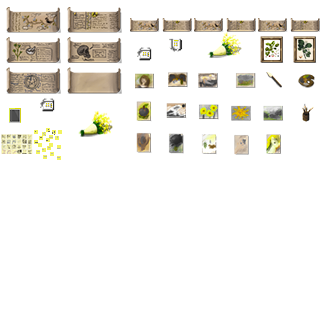
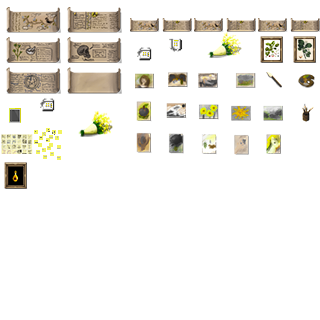
Up du matin

Changed region(s): [[0.0, 0.5, 0.0938, 0.5938]]

diff --git a/Indices/X01.html b/Indices/X01.html
@@ -1,0 +1,25 @@
+<!DOCTYPE html>
+<html>
+<head>
+<title>Indice X01</title>
+</head>
+<body style="background-color:#000000;">
+</body>
+<center>
+
+<h1 style="color:#FFF500";>
+Nouvel indice!</h1>
+
+<p style="color:#FFFFFF";>
+Un poster dédicacé de Cyril Lignac: 
+</p>
+</center>
+
+
+</body>
+</html>
+<center>
+
+    <div width="352" height="470"><img src="https://bigdramanab.github.io/Muertata/Indices/Images/B01_Poster_V1.jpg" width="70%" height="70%" /></div>
+</p>
+</html>
